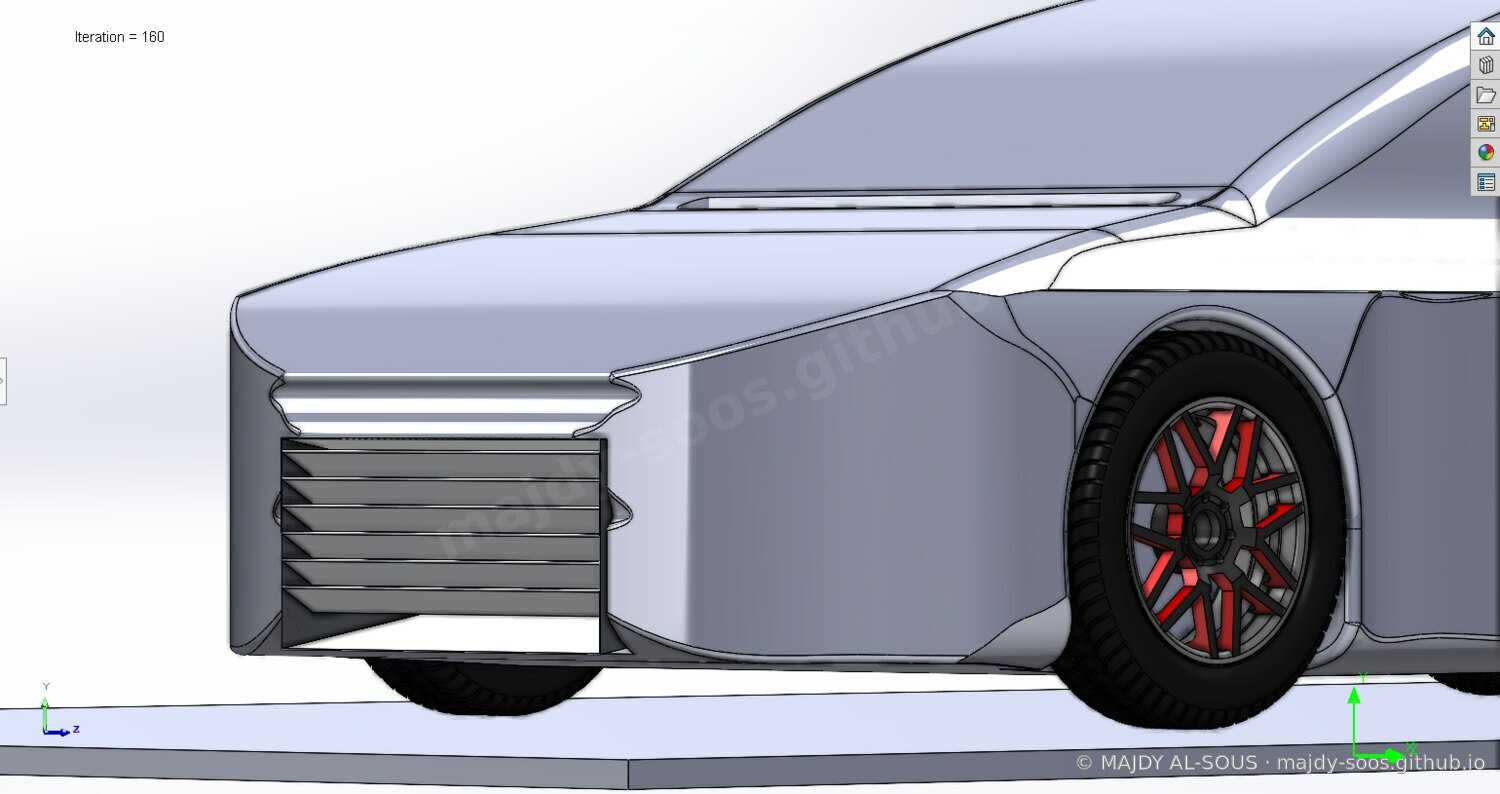
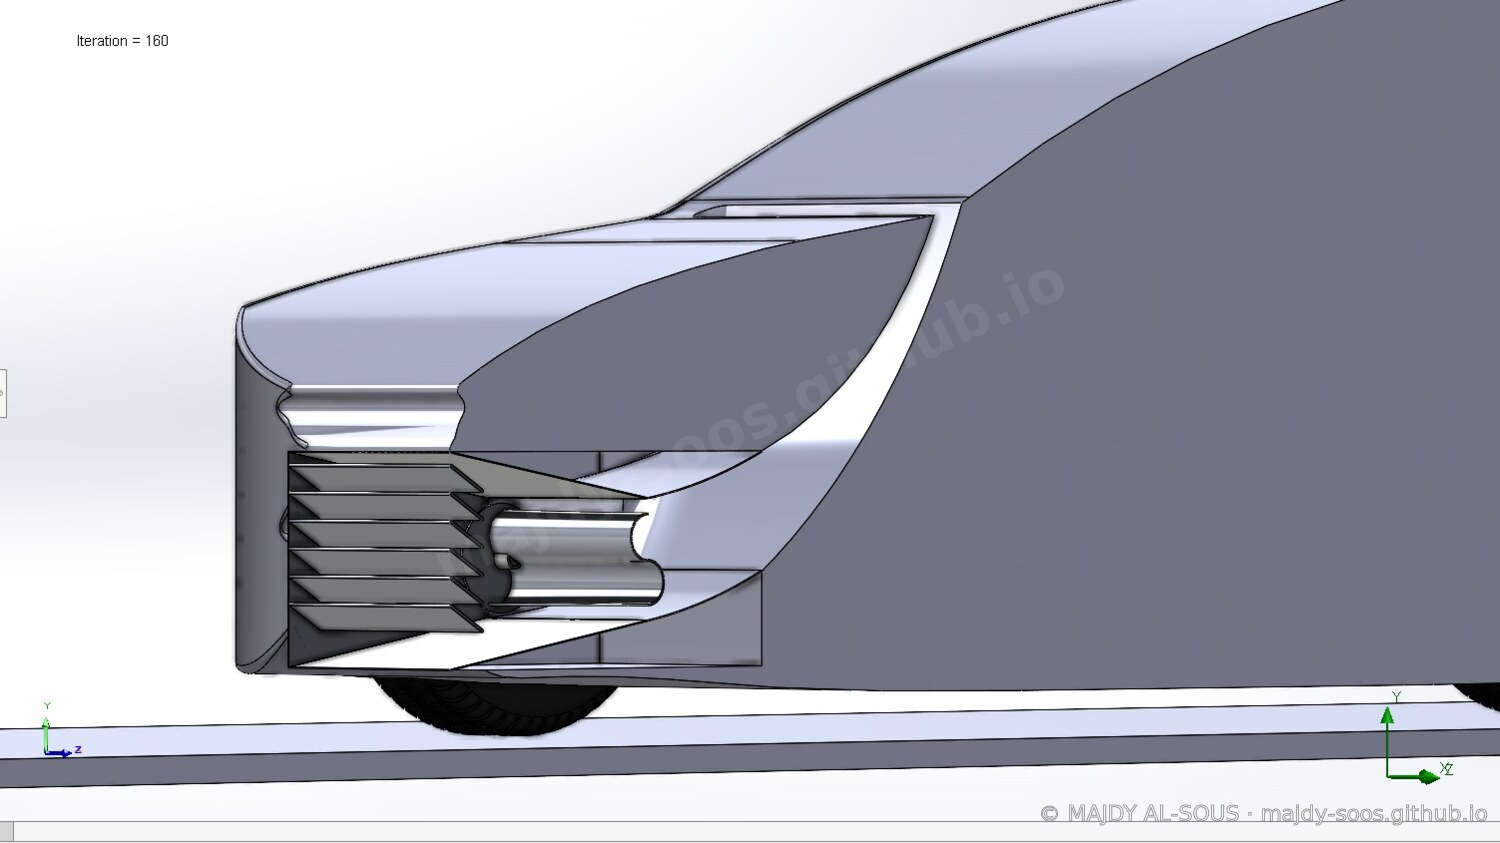
Add files via upload

diff --git a/index.html b/index.html
@@ -739,15 +739,14 @@ const PROJECTS = [
       {f:"s2",c:"Static structural analysis — factor of safety distribution"}
     ]},
     {t:"Vehicle Integration — Frontal Configuration",imgs:[
-      {f:"09",c:"The integrated system seen through the front intake opening — internal arrangement patent pending"},
-      {f:"10",c:"Cutaway — intake, flow-conditioning cascade and rotor housing in place (patent pending)"}
+      {f:"10",c:"Sectioned view through the same configuration — flow-conditioning cascade and rotor housing exposed (patent pending)"}
     ]},
     {t:"Energy Balance — Effect of Inlet Flow Conditioning",imgs:[
       {f:"k3",c:"Before flow conditioning — energy produced against vehicle energy consumption across the speed range"},
       {f:"k4",c:"After flow conditioning — the convergent–divergent nozzle roughly doubles inlet air speed, lifting produced energy above consumption",hl:true}
     ]}
   ],
-  v:12,
+  v:13,
   meta:{Role:"Researcher & simulation engineer", Type:"B.Sc. graduation project — patent pending", Tools:"SolidWorks Flow Simulation · CFD · Motion", Scope:"4 rotor concepts · placement study · full-vehicle CFD", Reference:"Tesla Model 3 (RWD / Long Range) — manufacturer-published exterior & body dimensions"},
   overview:"Electric vehicles still lose buyers to range anxiety. This project asked a direct question: how much of an EV's consumption can be recovered from the airflow the car is already pushing through? The answer became a complete system study — rotor selection by comparative CFD, aerodynamic placement screening on a reference sedan, and integration of the selected turbine with proprietary inlet flow-conditioning and low-friction magnetic support elements. The work was awarded 92/100, ranked first in the cohort, and a patent application has been filed on the system configuration — which is why exact geometry, flow-conditioning details and internal arrangements are deliberately withheld from this plate.",
   approach:"The study ran in disciplined stages. The reference vehicle was not a generic body: it was modelled to the manufacturer's published exterior dimensions for a Tesla Model 3 (RWD / Long Range) — 4,720 mm overall length and 2,089 mm overall width including mirrors — together with the published under-hood and underbody datum measurements, so that packaging volumes and frontal area were representative rather than assumed. First, four vertical-axis rotor concepts — all built with twisted blades — a twisted two-blade Savonius, a twisted three-blade Savonius, a twisted helical rotor, and a twisted Darrieus–Savonius hybrid, were simulated under identical conditions across the full vehicle-speed envelope, extracting torque and power goals to build comparable Cp/Ct datasets. The twisted two-blade Savonius won decisively. Second, placement candidates — hood, roof and front bumper — were screened with a simplified system volume to compare drag and turbulence impact before any detailed geometry entered the domain — the frontal position preserved the vehicle's external aerodynamics best. Third, the selected rotor was integrated with a convergent inlet and flow-conditioning elements (details patent-pending), and the complete configuration was verified with full-vehicle external CFD and power analysis against the reference EV's real consumption data.",
